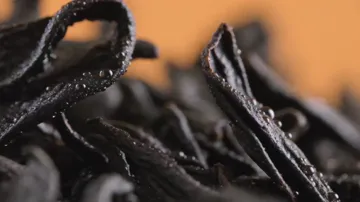
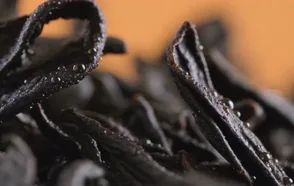
Hero chapter cards: 98x62 thumbnails, new frames for 02 (crown splash) and 03 (milk swirl)
Claude-Session: https://claude.ai/code/session_01P1fdh73eReJc2gFu8obC5d

diff --git a/index.html b/index.html
@@ -307,11 +307,11 @@ button{font:inherit;color:inherit}
 .vchapters::-webkit-scrollbar{display:none}
 @media (min-width:900px){.vchapters{padding-left:max(56px,env(safe-area-inset-left,0px));padding-right:56px;scroll-padding-left:56px}}
 .vchapters li{flex:0 0 min(78vw,300px);scroll-snap-align:start}
-.vch{position:relative;display:grid;grid-template-columns:44% 1fr;align-items:start;gap:14px;width:100%;padding:16px 0 6px;border:0;background:none;color:var(--peach);text-align:left;cursor:pointer;font:inherit;opacity:.62;transition:opacity .35s ease}
+.vch{position:relative;display:grid;grid-template-columns:98px 1fr;align-items:start;gap:14px;width:100%;padding:16px 0 6px;border:0;background:none;color:var(--peach);text-align:left;cursor:pointer;font:inherit;opacity:.62;transition:opacity .35s ease}
 .vch.on{opacity:1}
 .vch::before,.vch i{content:"";position:absolute;top:0;left:0;right:0;height:1px;background:rgba(242,212,190,.35)}
 .vch i{height:2px;top:-.5px;background:var(--peach);transform:scaleX(0);transform-origin:left}
-.vch img{width:100%;height:auto;aspect-ratio:16/10;object-fit:cover;border-radius:4px;display:block}
+.vch img{width:98px;height:62px;object-fit:cover;border-radius:4px;display:block}
 .vch b{display:block;font:500 .95rem/1 var(--f-body);margin-bottom:.55rem}
 .vch span{font:500 .9rem/1.25 var(--f-body)}
 @media (hover:hover) and (pointer:fine){.vch:hover{opacity:1}}
@@ -833,11 +833,11 @@ button{font:inherit;color:inherit}
   </div>
   <div class="vrail">
     <ol class="vchapters" id="vchapters" aria-label="Film chapters">
-      <li><button class="vch on" type="button" data-k="0"><i aria-hidden="true"></i><img src="a/ch-1.webp" alt="" width="360" height="203" loading="lazy"><span><b>01</b>Bold black tea</span></button></li>
-      <li><button class="vch" type="button" data-k="1"><i aria-hidden="true"></i><img src="a/ch-2.webp" alt="" width="360" height="203" loading="lazy"><span><b>02</b>Pulled, not stirred</span></button></li>
-      <li><button class="vch" type="button" data-k="2"><i aria-hidden="true"></i><img src="a/ch-3.webp" alt="" width="360" height="203" loading="lazy"><span><b>03</b>Silky, never too sweet</span></button></li>
-      <li><button class="vch" type="button" data-k="3"><i aria-hidden="true"></i><img src="a/ch-4.webp" alt="" width="360" height="203" loading="lazy"><span><b>04</b>Handmade taufufah</span></button></li>
-      <li><button class="vch" type="button" data-k="4"><i aria-hidden="true"></i><img src="a/ch-5.webp" alt="" width="360" height="203" loading="lazy"><span><b>05</b>Five flavours, one pull</span></button></li>
+      <li><button class="vch on" type="button" data-k="0"><i aria-hidden="true"></i><img src="a/ch-1.webp" alt="" width="98" height="62" loading="lazy"><span><b>01</b>Bold black tea</span></button></li>
+      <li><button class="vch" type="button" data-k="1"><i aria-hidden="true"></i><img src="a/ch-2.webp" alt="" width="98" height="62" loading="lazy"><span><b>02</b>Pulled, not stirred</span></button></li>
+      <li><button class="vch" type="button" data-k="2"><i aria-hidden="true"></i><img src="a/ch-3.webp" alt="" width="98" height="62" loading="lazy"><span><b>03</b>Silky, never too sweet</span></button></li>
+      <li><button class="vch" type="button" data-k="3"><i aria-hidden="true"></i><img src="a/ch-4.webp" alt="" width="98" height="62" loading="lazy"><span><b>04</b>Handmade taufufah</span></button></li>
+      <li><button class="vch" type="button" data-k="4"><i aria-hidden="true"></i><img src="a/ch-5.webp" alt="" width="98" height="62" loading="lazy"><span><b>05</b>Five flavours, one pull</span></button></li>
     </ol>
   </div>
 </section>
